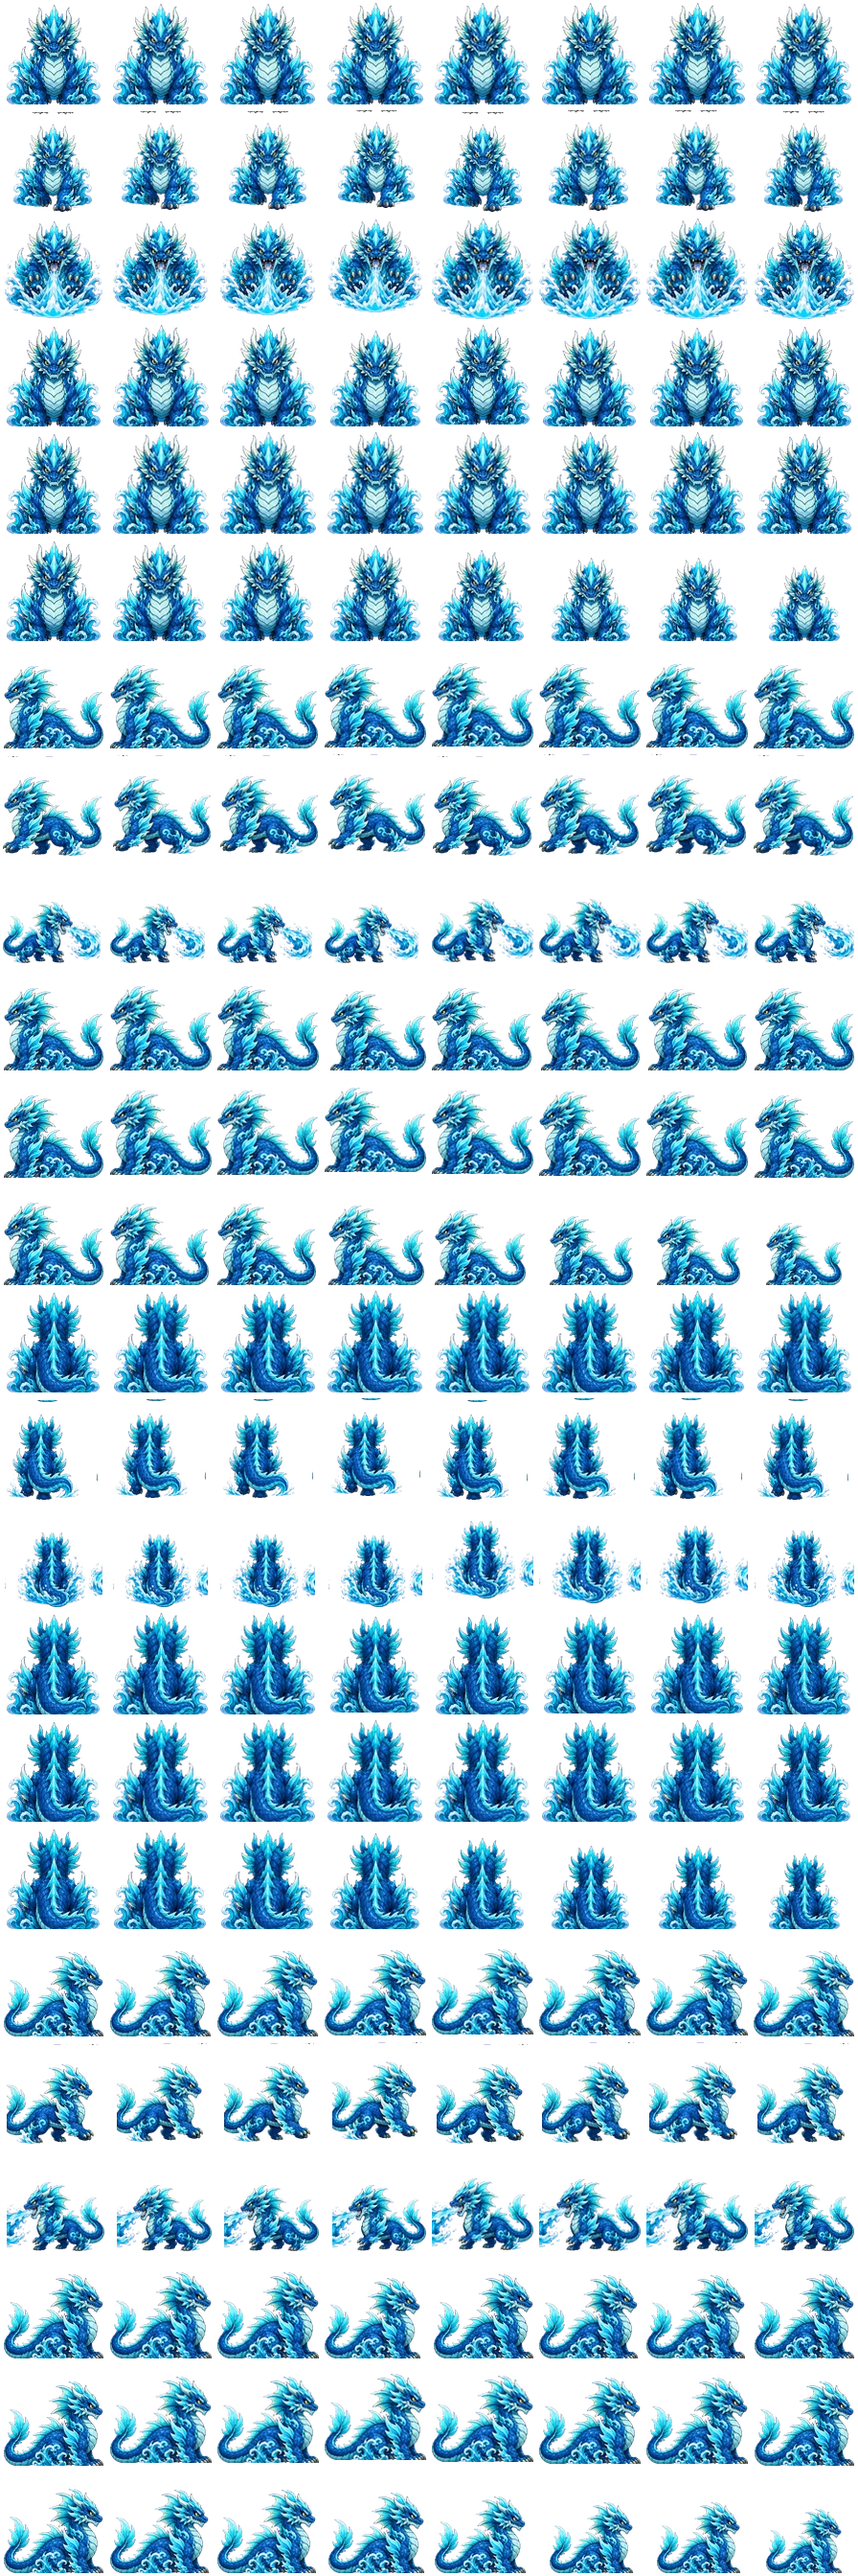
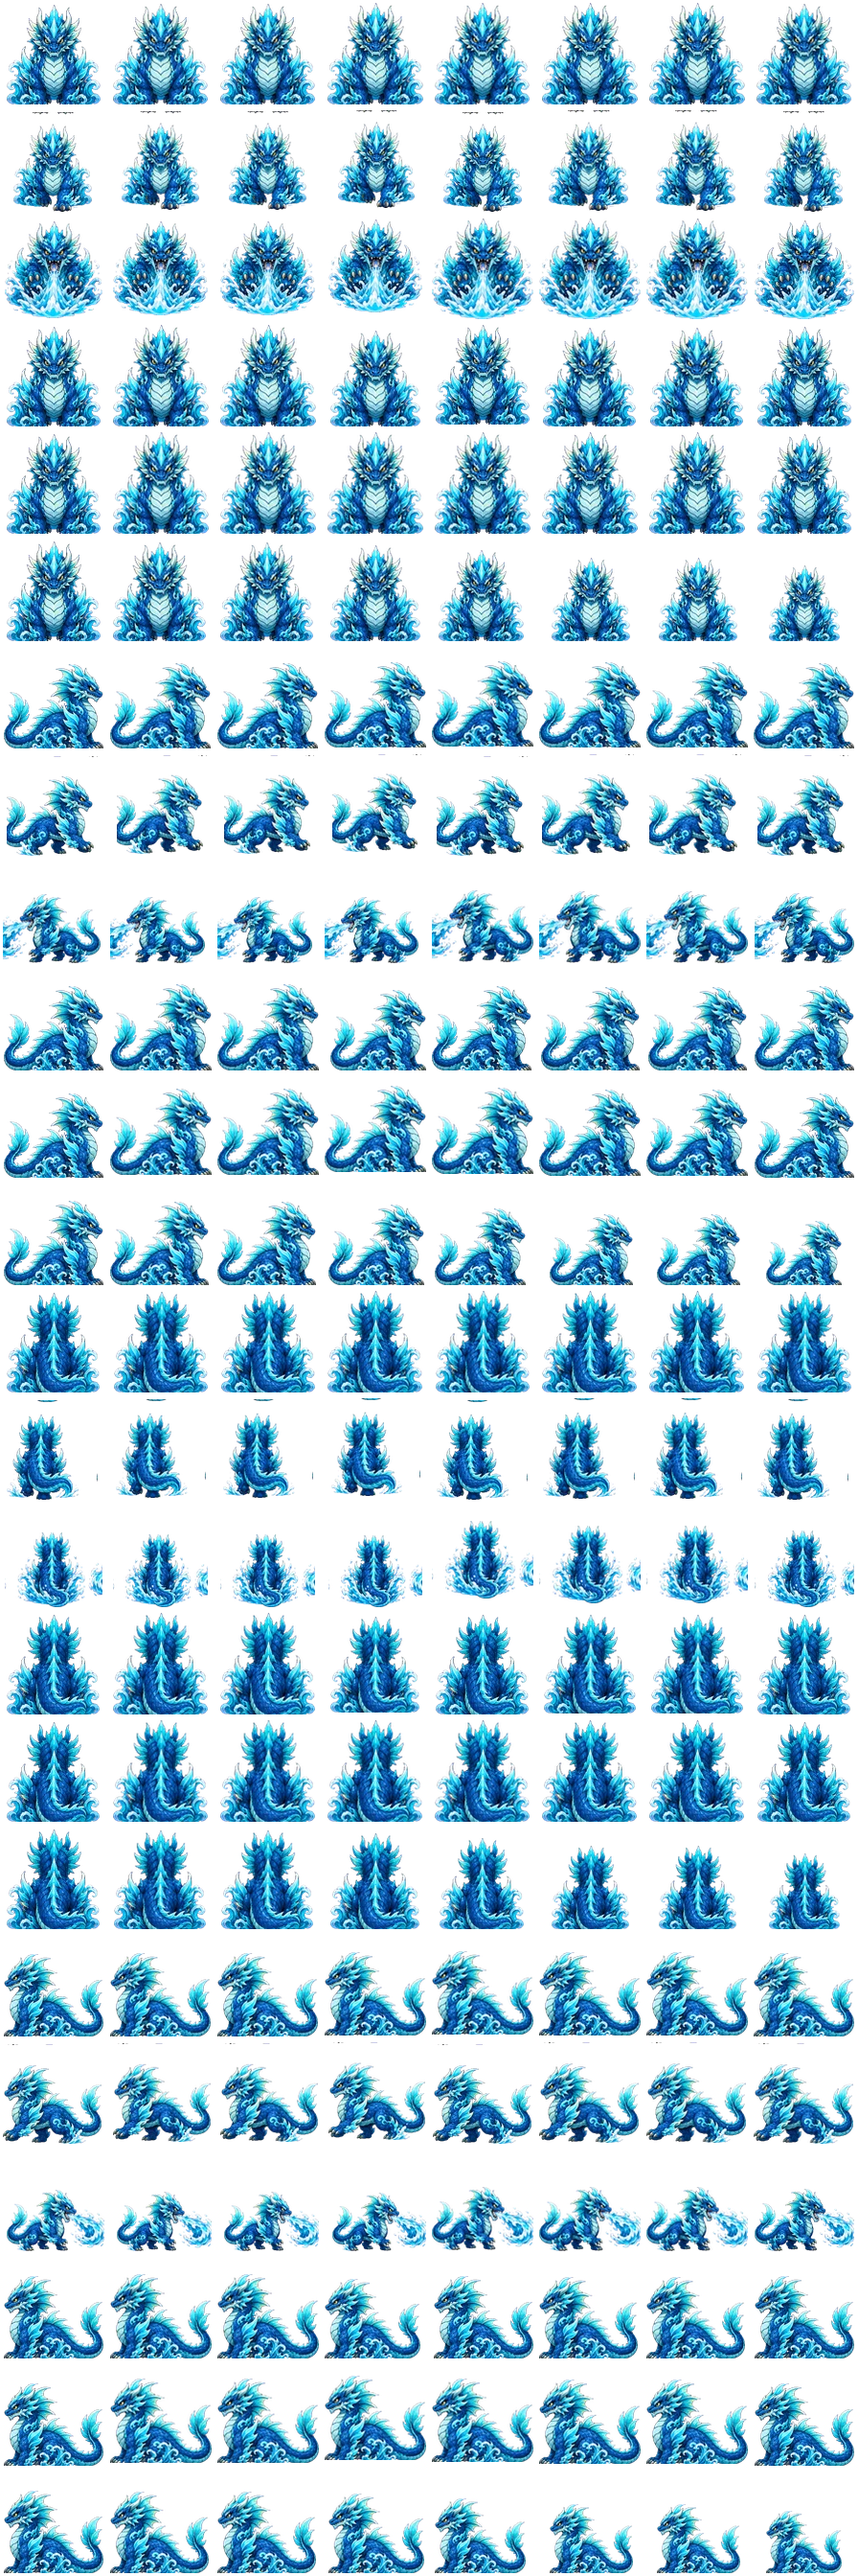
feat: limit summon pool and fix tsunami dragon facing

Changed region(s): [[0.0, 0.75, 1.0, 1.0], [0.0, 0.25, 1.0, 0.5]]

diff --git a/js/tactics.js b/js/tactics.js
@@ -215,7 +215,7 @@
     var stage = Math.max(1, Math.min(3, Number(unit.evolution) || 1));
     var stagePortrait = unit.p.evolution[Math.min(stage, unit.p.evolution.length) - 1]?.portrait || '';
     var stageSuffix = stage > 1 && stagePortrait.indexOf('assets/pets/' + unit.id + '/evolution/stage_' + stage + '.png') === 0 ? '-stage_' + stage : '';
-    return '../assets/animations/directional/' + unit.id + stageSuffix + '-motion-4dir-sheet.webp?v=35';
+    return '../assets/animations/directional/' + unit.id + stageSuffix + '-motion-4dir-sheet.webp?v=36';
   }
   function motionManifestEntry(unit) { return (window.TACTICAL_MOTION_MANIFEST || {})[unit.id] || {}; }
   function animationSpec(unit, action, override) {
@@ -1504,7 +1504,7 @@
     if (autoTimer) { stopAuto(false); render(); return; }
     startAuto(); note('AUTO 啟動：AI 會評估走位、視線、集火與控場時機。');
   }
-  function cycleSpeed() { var speeds = [1, 1.5, 2, 10], index = speeds.indexOf(battleSpeed); battleSpeed = speeds[(index + 1) % speeds.length]; document.documentElement.style.setProperty('--battle-rate', 1 / battleSpeed); dom.speed.textContent = '⚡ ' + battleSpeed + '×'; if (autoTimer) scheduleAuto(); audio.play('ui'); }
+  function cycleSpeed() { var speeds = [1, 1.5, 2], index = speeds.indexOf(battleSpeed); battleSpeed = speeds[(index + 1) % speeds.length]; document.documentElement.style.setProperty('--battle-rate', 1 / battleSpeed); dom.speed.textContent = '⚡ ' + battleSpeed + '×'; if (autoTimer) scheduleAuto(); audio.play('ui'); }
 
   async function endTurn(fromAuto) {
     if (currentStage.tower && !fromAuto) return;
@@ -2059,7 +2059,7 @@
     document.getElementById('gacha-info').innerHTML = '持有 <b>💎 ' + progress.crystals + '</b> 召喚水晶。首次通關與每日任務可獲得水晶。已收集 ' + progression.dexSummary().total + '/' + window.TACTICAL_PET_DATA.length + ' 隻。';
     var icons = { fire: '🔥 火', forest: '🌿 森', ocean: '🌊 海', light: '✨ 光', dark: '🌑 暗' };
     var featured = progression.featuredProgress(), featuredPet = featured.pet;
-    document.getElementById('gacha-element-pulls').innerHTML = '<article class="gacha-featured"><span class="gacha-featured-art" style="background-image:url(\'' + featuredPet.evolution[0].portrait + '\')"></span><div><b>✦ 每日精選幻獸池</b><small>' + (window.ELEMENT_CONFIG[featuredPet.element] || {}).label + '・' + featuredPet.name + '｜保底進度 ' + featured.pulls + '/' + featured.target + '</small></div><div class="gacha-featured-actions"><button type="button" data-featured-pull="1">單抽 30 💎</button><button type="button" data-featured-pull="10">十連 270 💎</button></div></article>' + ['fire', 'forest', 'ocean', 'light', 'dark'].map(function (element) { return '<button type="button" data-element-pull="' + element + '">' + icons[element] + '屬性召喚 <small>50 💎</small></button>'; }).join('');
+    document.getElementById('gacha-element-pulls').innerHTML = '<article class="gacha-featured"><span class="gacha-featured-art" style="background-image:url(\'' + featuredPet.evolution[0].portrait + '\')"></span><div><b>✦ 200 抽隨機保底池</b><small>僅限 1×1 幻獸｜保底進度 ' + featured.pulls + '/' + featured.target + '｜達成時隨機贈送</small></div><div class="gacha-featured-actions"><button type="button" data-featured-pull="1">單抽 30 💎</button><button type="button" data-featured-pull="10">十連 270 💎</button></div></article>' + ['fire', 'forest', 'ocean', 'light', 'dark'].map(function (element) { return '<button type="button" data-element-pull="' + element + '">' + icons[element] + '屬性召喚 <small>50 💎</small></button>'; }).join('');
     document.querySelectorAll('[data-element-pull]').forEach(function (button) { button.onclick = function () { doPull(1, button.dataset.elementPull); }; });
     document.querySelectorAll('[data-featured-pull]').forEach(function (button) { button.onclick = function () { doPull(Number(button.dataset.featuredPull), null, true); }; });
   }
@@ -2299,7 +2299,7 @@
     enterTower: enterTower,
     reset: function (stageId) { if (stageId && progression.isStageUnlocked(stageId)) currentStage = content.stageById(stageId); reset(currentStage.id); },
     startBattle: startBattle,
-    setSpeed: function (speed) { battleSpeed = Math.max(1, Math.min(10, Number(speed) || 1)); },
+    setSpeed: function (speed) { battleSpeed = Math.max(1, Math.min(2, Number(speed) || 1)); },
     startAuto: function () { if (!autoTimer) toggleAuto(); },
     stopAuto: stopAuto
   };
@@ -2324,7 +2324,7 @@
 
   /* 自動化煙霧測試：?autotest=1 會全速打完一場並把結果寫進網頁標題。 */
   if (/[?&]autotest=1/.test(window.location.search)) {
-    battleSpeed = 8; document.documentElement.style.setProperty('--battle-rate', 1 / battleSpeed);
+    battleSpeed = 2; document.documentElement.style.setProperty('--battle-rate', 1 / battleSpeed);
     var stageMatch = window.location.search.match(/[?&]stage=([a-z0-9-]+)/);
     if (stageMatch) {
       var wanted = content.stageById(stageMatch[1]);

diff --git a/tactics.html b/tactics.html
@@ -79,6 +79,6 @@
   <div id="home-display-modal" class="deploy-modal" hidden><section class="deploy-dialog home-display-dialog" role="dialog" aria-modal="true" aria-labelledby="home-display-title"><div class="deploy-head"><div><p class="eyebrow">旗艦設定</p><h2 id="home-display-title">選擇機庫展示幻獸</h2></div><button class="close-deploy" data-close="home-display-modal" aria-label="關閉展示設定">×</button></div><p class="gacha-info">這五隻是首頁展示候選；更換展示不會影響你實際擁有或出戰的幻獸。</p><label class="home-display-mode"><input id="home-display-follow" type="checkbox"> 展示跟隨目前隊長</label><div id="home-display-grid" class="home-display-grid"></div></section></div>
   <div id="story-modal" class="deploy-modal story-modal" hidden><section class="deploy-dialog story-dialog" role="dialog" aria-modal="true" aria-labelledby="story-title"><div id="story-art" class="story-art"></div><div class="story-body"><p id="story-kicker" class="eyebrow"></p><p id="story-speaker" class="story-speaker"></p><h2 id="story-title"></h2><p id="story-copy"></p><button id="story-next" class="primary" type="button">繼續</button></div></section></div>
   <script>window.__consoleErrors=[];window.addEventListener('error',function(e){window.__consoleErrors.push(String(e.message||e.error));});window.addEventListener('unhandledrejection',function(e){window.__consoleErrors.push(String(e.reason));});</script>
-  <script src="js/data/pets.js"></script><script src="js/data/pets-lightdark.js?v=1"></script><script src="js/data/pets-pack.js?v=1"></script><script src="js/data/tactical-pets.js?v=8"></script><script src="js/data/tactical-enemies.js?v=5"></script><script src="js/data/map-terrain.js?v=1"></script><script src="js/data/tactical-content.js?v=11"></script><script src="js/data/story-content.js?v=3"></script><script src="js/data/animation-config.js?v=1"></script><script src="assets/animations/directional/manifest.js?v=11"></script><script src="js/core/TacticalProgression.js?v=13"></script><script src="js/core/TacticalAudio.js?v=2"></script><script src="js/tactics.js?v=72"></script>
+  <script src="js/data/pets.js"></script><script src="js/data/pets-lightdark.js?v=1"></script><script src="js/data/pets-pack.js?v=1"></script><script src="js/data/tactical-pets.js?v=8"></script><script src="js/data/tactical-enemies.js?v=5"></script><script src="js/data/map-terrain.js?v=1"></script><script src="js/data/tactical-content.js?v=11"></script><script src="js/data/story-content.js?v=3"></script><script src="js/data/animation-config.js?v=1"></script><script src="assets/animations/directional/manifest.js?v=12"></script><script src="js/core/TacticalProgression.js?v=14"></script><script src="js/core/TacticalAudio.js?v=2"></script><script src="js/tactics.js?v=74"></script>
 </body>
 </html>

diff --git a/js/core/TacticalProgression.js b/js/core/TacticalProgression.js
@@ -294,7 +294,7 @@
   TacticalProgression.prototype.dateKey = function () { return new Date().toLocaleDateString('en-CA', { timeZone: 'Asia/Taipei' }); };
   TacticalProgression.prototype.featuredPet = function () {
     var date = this.dateKey(), seed = date.split('-').reduce(function (sum, part) { return sum * 37 + Number(part || 0); }, 0);
-    var pool = this.profiles.filter(function (pet) { return ['elite', 'epic', 'legendary', 'mythical'].indexOf(pet.quality) >= 0; });
+    var pool = this.profiles.filter(function (pet) { return pet.size === 1 && ['elite', 'epic', 'legendary', 'mythical'].indexOf(pet.quality) >= 0; });
     return { date: date, pet: pool[Math.abs(seed) % pool.length] || this.profiles[0] };
   };
   TacticalProgression.prototype.featuredProgress = function () {
@@ -308,14 +308,14 @@
     if (element) count = 1;
     var cost = element ? 50 : this.pullCost(count);
     if (this.state.crystals < cost) return { ok: false, reason: '召喚水晶不足（需要 ' + cost + '💎）' };
-    var tierCounts = {};
-    this.profiles.forEach(function (pet) { tierCounts[pet.quality] = (tierCounts[pet.quality] || 0) + 1; });
-    var pool = this.profiles.filter(function (pet) { return !element || pet.element === element; }).map(function (pet) { return { pet: pet, weight: (GACHA_TIER_WEIGHT[pet.quality] || 10) / tierCounts[pet.quality] }; });
+    var tierCounts = {}, eligiblePets = this.profiles.filter(function (pet) { return pet.size === 1 && (!element || pet.element === element); });
+    eligiblePets.forEach(function (pet) { tierCounts[pet.quality] = (tierCounts[pet.quality] || 0) + 1; });
+    var pool = eligiblePets.map(function (pet) { return { pet: pet, weight: (GACHA_TIER_WEIGHT[pet.quality] || 10) / tierCounts[pet.quality] }; });
     var totalWeight = pool.reduce(function (sum, entry) { return sum + entry.weight; }, 0), featuredInfo = featured ? this.featuredProgress() : null;
     this.state.crystals -= cost;
     var results = [];
     for (var index = 0; index < count; index++) {
-      var guaranteed = featuredInfo && featuredInfo.pulls >= FEATURED_PITY - 1, roll = Math.random() * totalWeight, picked = guaranteed ? { pet: featuredInfo.pet } : pool[0];
+      var guaranteed = featuredInfo && featuredInfo.pulls >= FEATURED_PITY - 1, roll = Math.random() * totalWeight, picked = guaranteed ? { pet: eligiblePets[Math.floor(Math.random() * eligiblePets.length)] } : pool[0];
       if (!guaranteed) for (var cursor = 0; cursor < pool.length; cursor++) { roll -= pool[cursor].weight; if (roll <= 0) { picked = pool[cursor]; break; } }
       var grant = this.grantPet(picked.pet.id);
       results.push({ pet: picked.pet, isNew: grant.isNew, shards: grant.shards || 0, featuredGuaranteed: Boolean(guaranteed) });

diff --git a/assets/animations/directional/manifest.js b/assets/animations/directional/manifest.js
@@ -13877,9 +13877,9 @@ window.TACTICAL_MOTION_MANIFEST = {
     },
     "sourceColumns": [
       0,
-      1,
+      3,
       2,
-      3
+      1
     ],
     "sourceType": "authored-four-direction",
     "source": "assets/animations/directional/sources/tsunami_dragon-four-direction-reference-v1-alpha.png",

diff --git a/scripts/build-four-direction-motion.py b/scripts/build-four-direction-motion.py
@@ -64,7 +64,7 @@ SOURCE_ALREADY_RIGHT = {
 # points right on the board.
 SWAPPED_SIDE_UNITS = {
     "fire_lion", "fire_fox", "leaf_ear_rabbit", "rotcap_rootling", "venom_mantis",
-    "fog_wisp", "gloom_turtle", "ash_hound",
+    "fog_wisp", "gloom_turtle", "ash_hound", "tsunami_dragon",
 }
 # AI grids occasionally let an adjacent cell's tail or attack trail cross the
 # cell boundary.  Remove only the verified intrusion, before scaling it into a
